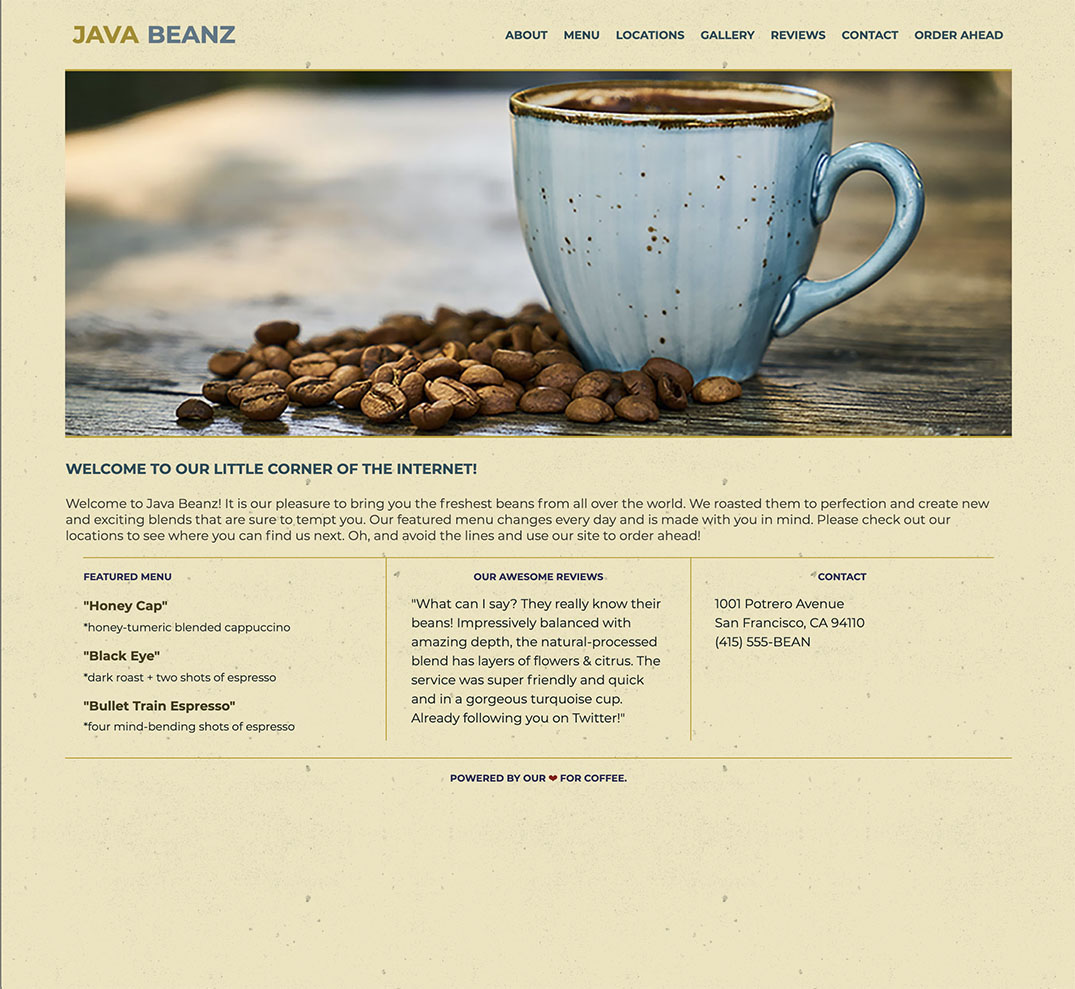
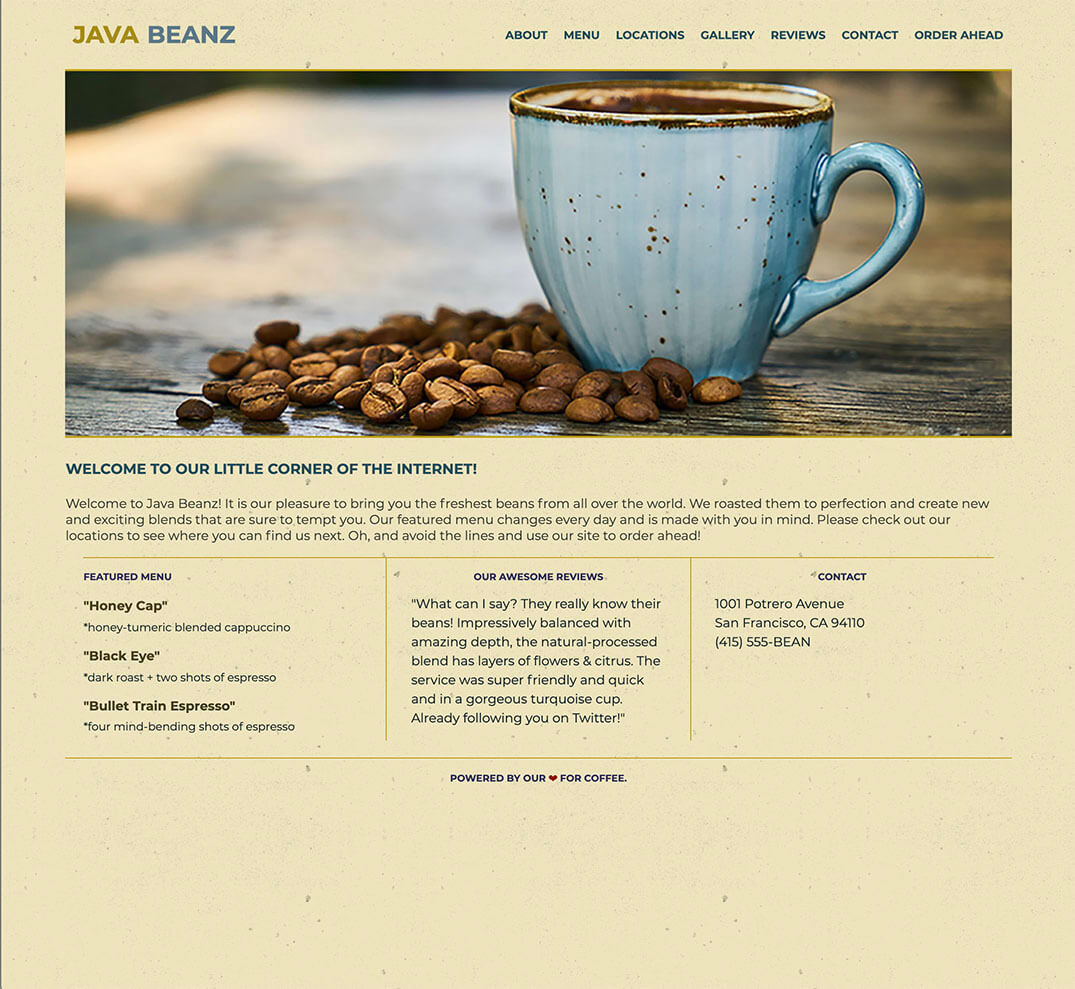
Optimized images and changed Hero-img from testing to final test-3.

Changed region(s): [[0.0921, 0.0303, 0.1228, 0.0607]]

diff --git a/css/main.css b/css/main.css
@@ -140,7 +140,7 @@ nav a:hover{
 
 /** HERO BACKGROUND IMAGE **/
 .hero-area{
-  background: url(../img/hero-test-3.jpg), center no-repeat #7c691b;
+  background: url(../img/hero-test-3.jpg), center no-repeat;
   background-blend-mode: overlay;
   background-size: cover;
   width: 100%;
